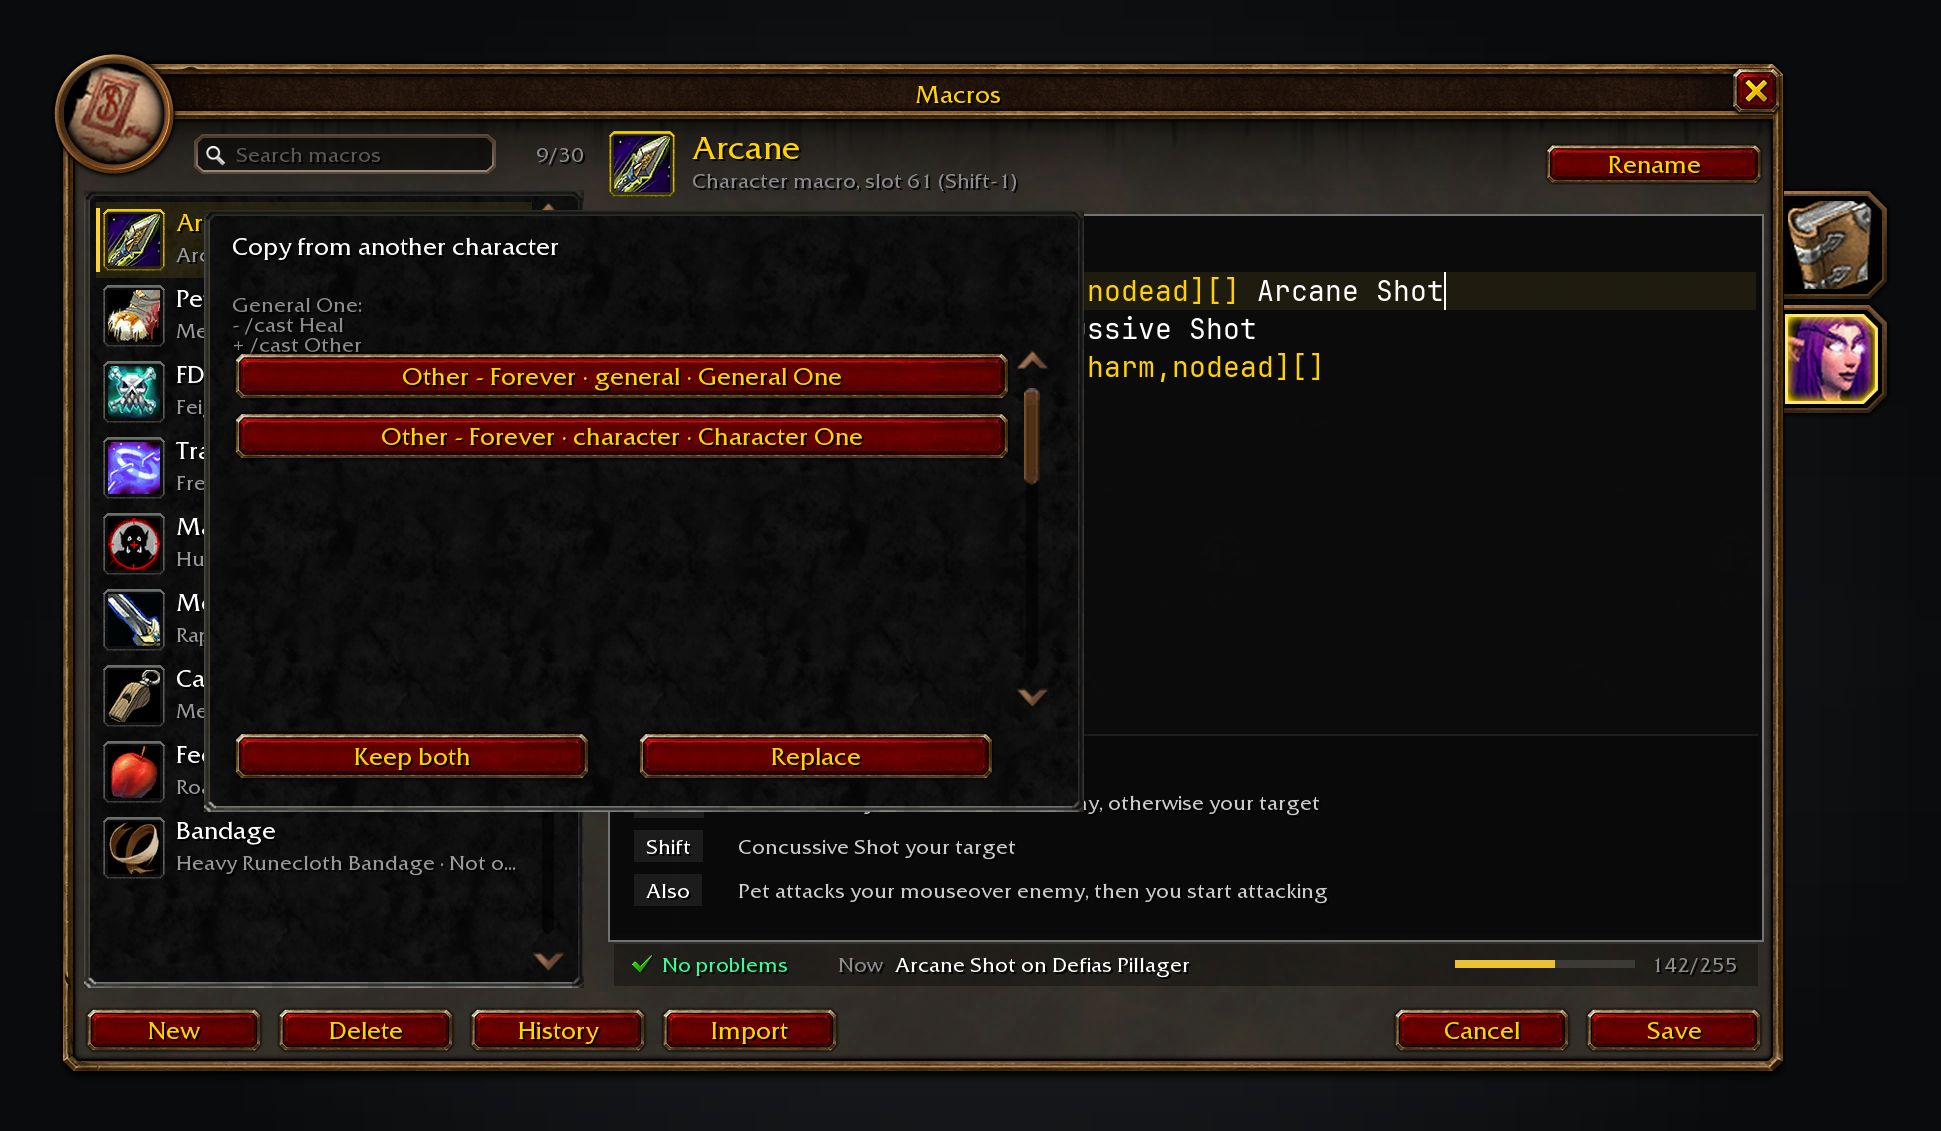
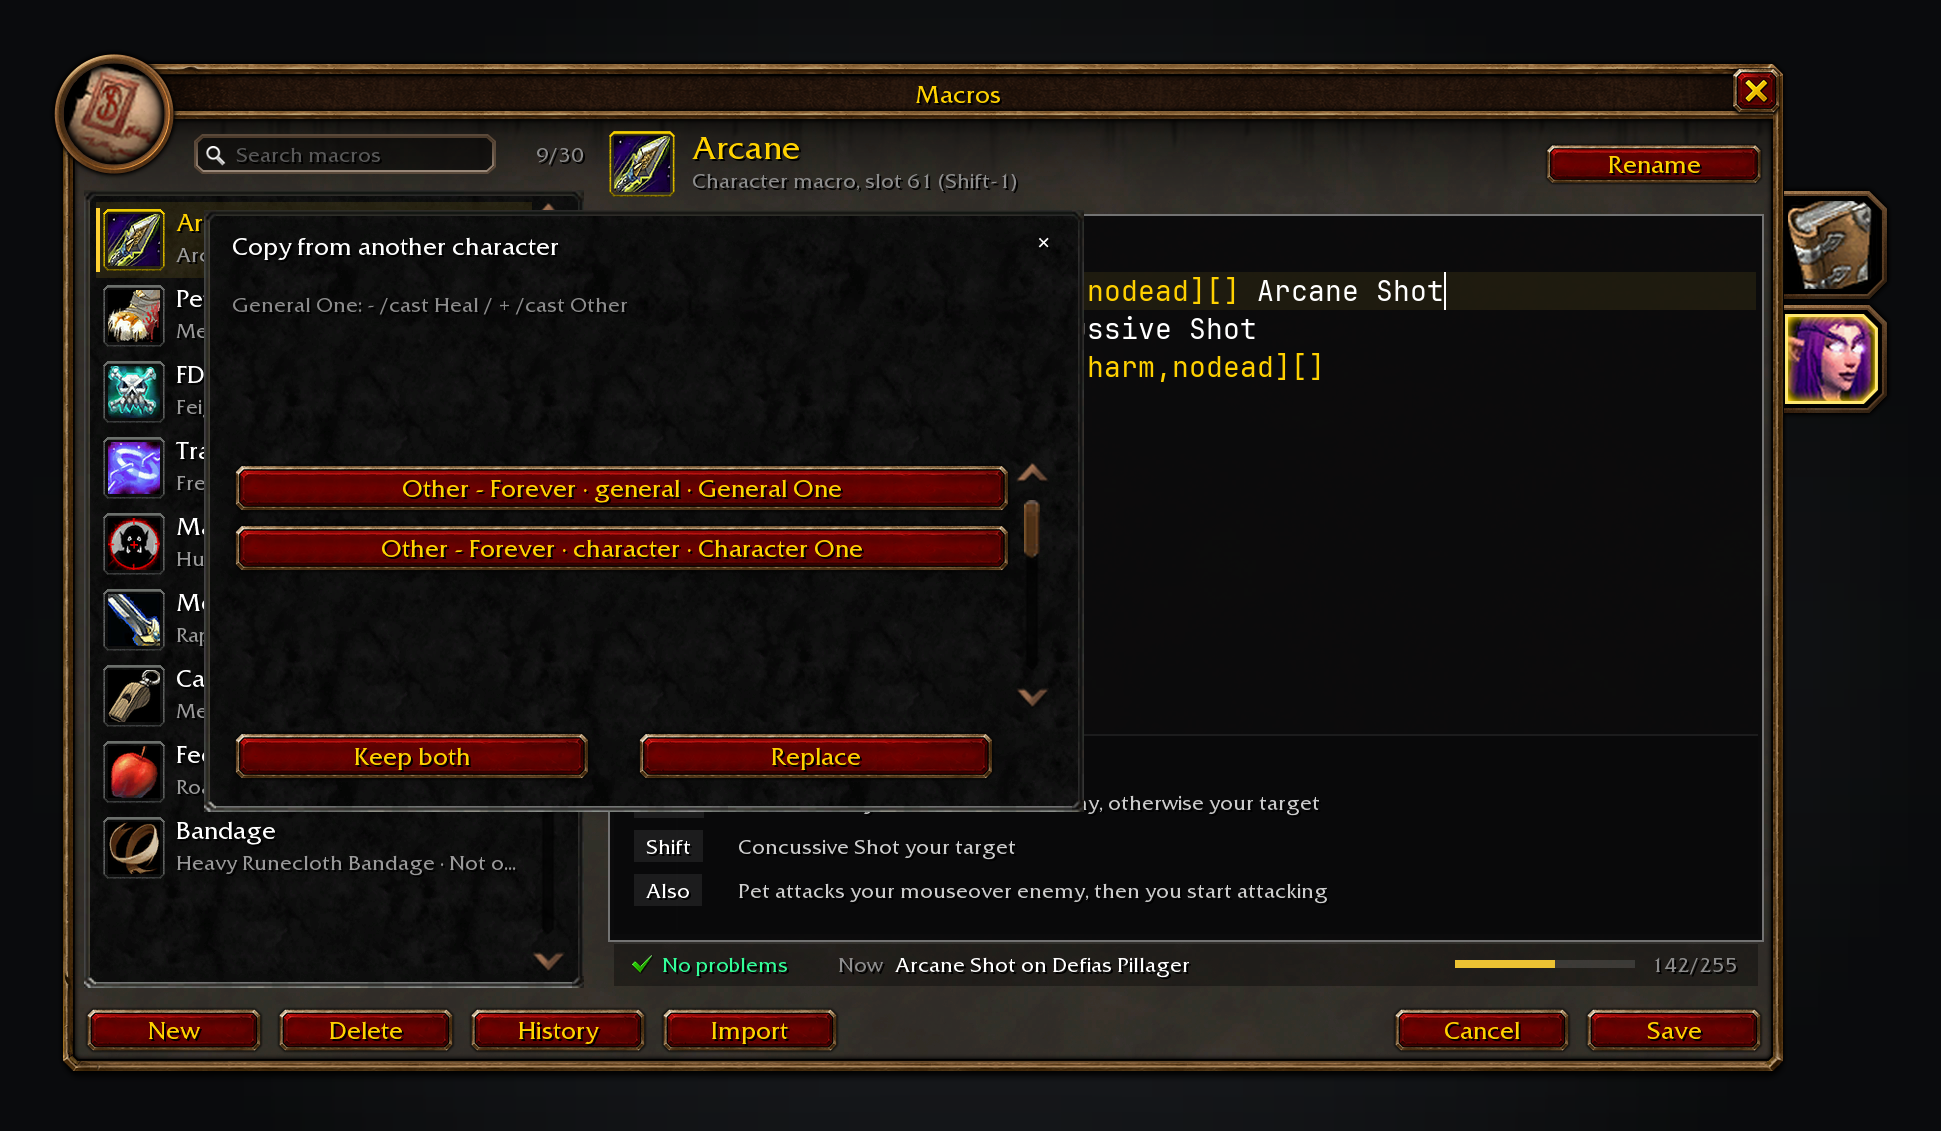
fix: match Characters conflict layout to runtime
Give the conflict detail a bounded three-line region, move the source scroll
list below it, and render the close control and geometry in the visual scene.

Changed region(s): [[0.1236, 0.2785, 0.5564, 0.5261], [0.2782, 0.2476, 0.3091, 0.2785], [0.2164, 0.2476, 0.2473, 0.2785]]

diff --git a/tools/screenshots.py b/tools/screenshots.py
@@ -1355,10 +1355,11 @@ def draw_characters(canvas):
     x, y, w, h = X + 70, Y + 70, 440, 300
     inset(canvas, x, y, w, h)
     canvas.text(x + 14, y + 12, "Copy from another character", FONTS["GameFontNormal"], WHITE)
-    canvas.text(x + 14, y + 42, "General One:\n- /cast Heal\n+ /cast Other", FONTS["GameFontHighlightSmall"], MUTED, width=400)
+    canvas.text(x + 14, y + 42, "General One: - /cast Heal / + /cast Other", FONTS["GameFontHighlightSmall"], MUTED, width=400)
     for row, label in enumerate(("Other - Forever · general · General One", "Other - Forever · character · Character One")):
-        button(canvas, x + 14, y + 70 + row * 30, 390, label, h=26)
-    wowmock.minimal_scrollbar(canvas, x + 410, y + 70, 180, visible=0.35)
+        button(canvas, x + 14, y + 126 + row * 30, 390, label, h=26)
+    wowmock.minimal_scrollbar(canvas, x + 410, y + 126, 124, visible=0.35)
+    canvas.text(x + w - 24, y + 10, "×", FONTS["GameFontNormal"], WHITE)
     button(canvas, x + 14, y + h - 40, 180, "Keep both", h=26)
     button(canvas, x + 216, y + h - 40, 180, "Replace", h=26)
     return x, y, w, h
@@ -1367,7 +1368,7 @@ def draw_characters(canvas):
 def characters_layout():
     x, y, w, h = X + 70, Y + 70, 440, 300
     return {"frame": {"x": x, "y": y, "w": w, "h": h}, "widgets": [
-        {"name": "characters-sources", "role": "list", "x": x + 14, "y": y + 70, "w": 390, "h": 180},
+        {"name": "characters-sources", "role": "list", "x": x + 14, "y": y + 126, "w": 390, "h": 124},
         {"name": "characters-keep", "role": "button", "x": x + 14, "y": y + h - 40, "w": 180, "h": 26},
         {"name": "characters-replace", "role": "button", "x": x + 216, "y": y + h - 40, "w": 180, "h": 26},
     ]}
